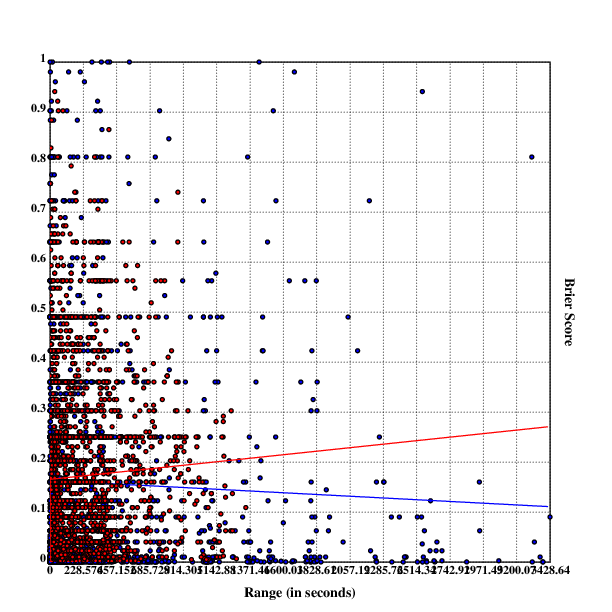
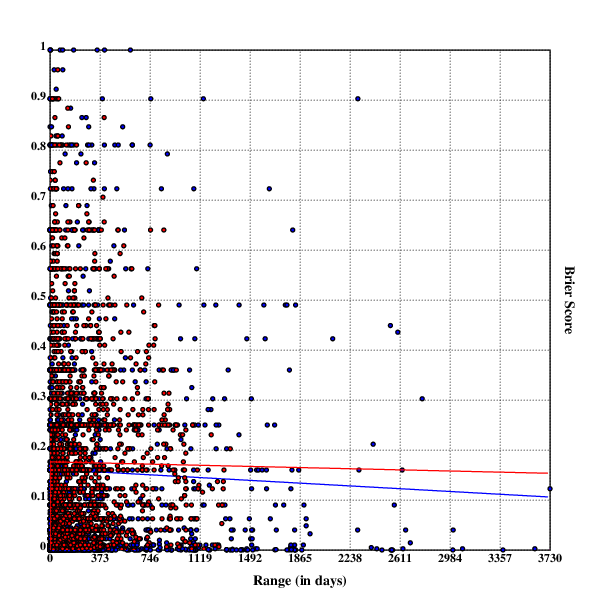
Add.

Changed region(s): [[0.03, 0.06, 0.96, 0.99]]

diff --git a/range_and_forecasting_accuracy.html b/range_and_forecasting_accuracy.html
@@ -61,7 +61,7 @@ document.addEventListener('DOMContentLoaded', function () {
 
 <h2><a href="./index.html">home</a></h2>
 
-<p><em>author: niplav, created: 2020-03-24, modified: 2021-05-22, language: english, status: finished, importance: 6, confidence: possible</em></p>
+<p><em>author: niplav, created: 2020-03-24, modified: 2021-10-22, language: english, status: finished, importance: 6, confidence: possible</em></p>
 
 <blockquote>
   <p><strong>This text looks at the accuracy of forecasts in relation
@@ -1073,7 +1073,8 @@ it to zero outside the range of the oldest and newest chunks:</p>
     setrgb(.rn();.rn();.rn());
     pltr::{:[(x&gt;**q)|x&lt;**|q;0;lr(x;lreg(q))]};
     plot(pltr)}
-sketch'pchsmetq
+daywmetqbrier::{+{(,x%daysec),,y}@+x}'wmetqbrier
+sketch'daywmetqbrier
 </code></pre>
 
 <p><img src="./img/range_and_forecasting_accuracy/perquestion.png" alt="Linear regressions for the accuracy of questions by range" title="Linear regressions for the accuracy of questions by range" /></p>
@@ -1089,24 +1090,34 @@ it can tell us. My <em>guess</em> would be that it somewhat shows a trend
 with higher ranges responding to higher Brier scores (and therefore
 lower accuracy).</p>
 
-<p>We can test whether this suspicion is acually correct by calculating the
-average offset and the average ascension – if the ascension is positive,
-our suspicion is confirmed.</p>
+<p>We can test whether this suspicion is acually correct by calculating
+the average offset and the average ascension – if the ascension is
+positive, our suspicion is confirmed. We have to weight questions by how
+many predictions they have received, otherwise the result is skewed by
+questions with very few predictions:</p>
 
-<pre><code>    mu'+lreg'wmetqbrier
-[0.0000000343952235958370255 0.0375813222857496718]
-    mu'+lreg'wpbqbrier
-[0.0000359749784304593045 -238.963047593209695]
+<pre><code>    (+/{(#x)*lreg(x)}'wmetqbrier)%#wmetqbrier
+[0.00000306341910990109424 3.37347711690772603]
+    (+/{(#x)*lreg(x)}'wpbqbrier)%#wpbqbrier
+[0.0000806198780915276973 -500.10522409216513]
 </code></pre>
 
-<p>So it is true that accuracy within question <em>generally</em> is higher with
-lower range for Metaculus data. Everything else would have been surprising.</p>
+<p>So it is true that accuracy within question <em>generally</em> is higher
+with lower range for Metaculus data, and similar for PredictionBook
+data. Everything else would have been surprising.</p>
 
 <!--TODO: However, explain PredictionBook data?-->
 
 <p><img src="./img/range_and_forecasting_accuracy/withintotal.png" alt="Mean of linear regressions on accuracy within questions" title="Mean of linear regressions on accuracy within questions" /></p>
 
 <p><em>Mean of linear regressions on accuracy within questions (red is Metaculus data, blue is PredictionBook data).</em></p>
+
+<p>This chart, however, shows that the result is not as clean as one might
+hope: both linear regressions are very steep, with the PredictionBook
+one seeming more like a vertical line than a linear function of time.</p>
+
+<p>This probably results from the probabilities being treated linearly,
+while handling them in logspace would be much more appropriate.</p>
 
 <h3>Sample Sizes</h3>
 
@@ -1201,17 +1212,40 @@ the Metaculus developers do not exist to cater to my whims, and are doing
 a phenomenal job). So, unfortunately I'll have postpone a more complete
 analysis to later.</p>
 
+<h2>Limitations</h2>
+
+<p>This analysis is still quite lacking in several aspects and could be
+significantly improved.</p>
+
+<h3>Metaculus Dataset is Only Community Timeseries</h3>
+
+<p>The Metaculus dataset and the PredictionBook dataset are quite different:
+For PredictionBook, the full dataset of all predictions is available,
+while the Metaculus API only offers data of the weighted average of the
+community as a timeseries (with ≤101 datapoints). Due to this limitation,
+the PredictionBook results and the Metaculus results can't be easily compared.</p>
+
+<p>However, I have tried to report the results for the Metaculus dataset
+and the PredictionBook dataset separately, so that future work can
+work either with aggregated timeseries data or with full datasets of
+individual forecasts.</p>
+
+<h3>PredictionBook Forecasts can be Resolved by Anyone</h3>
+
+<p>PredictionBook, unlike Metaculus, makes no attempts to generate a shared
+notion of ground-truth: Any user can resolve any question as they like,
+with the question-writer having the final verdict. This would make it
+quite easy to manipulate the dataset.</p>
+
+<p>In contrast, Metaculus has a set of admins and moderators that share a
+notion of how the questions relate to events in the world, which keeps
+questions and resolutions consistent with each other.</p>
+
 <!--
-Limitations
------------
+### Linear Regression is Not Predictive
 
-### Metaculus Dataset is Only Community Timeseries
-
-Oh boy.
-TODO:
-Two different kinds of datasets
-
-### PredictionBook Forecasts can be Resolved by Anyone
+Use logspace instead? And logscore instead of brier score?
+Or just a logistic regression?
 -->
 
 <h2>Conclusion</h2>

diff --git a/changelog.html b/changelog.html
@@ -61,7 +61,7 @@ document.addEventListener('DOMContentLoaded', function () {
 
 <h2><a href="./index.html">home</a></h2>
 
-<p><em>author: niplav, created: 2019-04-02, modified: 2021-10-18, language: english, status: in progress, importance: 3, confidence: log</em></p>
+<p><em>author: niplav, created: 2019-04-02, modified: 2021-10-22, language: english, status: in progress, importance: 3, confidence: log</em></p>
 
 <blockquote>
   <p><strong>A monthly review of changes on this website.</strong></p>
@@ -72,6 +72,15 @@ document.addEventListener('DOMContentLoaded', function () {
 <h2>October 2021</h2>
 
 <ul>
+<li>New pages:
+<ul>
+<li><a href="./language.html">Playing with Language</a>. Collecting linguistic weirdnesses, rants about improper terminology, idioms for paper titles, quines, umeshisms, missing symmetries, types of guy, …</li>
+<li><a href="./microfiction.html">Microfiction</a>. Portmanteaus, interesting &amp; nice words, short poems, haikus, <a href="https://zackmdavis.net/blog/2019/06/inconsiderate/" title="Inconsiderate">Davisian dialogue fragments</a>, misattributed &amp; invented quotes, …</li>
+<li><a href="./sites.html">Recommendation-Worthy Websites</a></li>
+<li><a href="./textbook_discord_servers.html">Discord Servers for Textbooks</a></li>
+</ul></li>
+<li>Additions to old pages:
+<ul>
 <li><a href="./99_problems_klong_solution.html">99 Problems Klong Solution</a>:
 <ul>
 <li><a href="./99_problems_klong_solution.html#P63--Construct-a-complete-binary-tree">P63</a></li>
@@ -80,10 +89,10 @@ document.addEventListener('DOMContentLoaded', function () {
 <ul>
 <li><a href="./considerations_on_cryonics.html#Now-What">Now What?</a></li>
 </ul></li>
-<li><a href="./language.html">Playing with Language</a>. Collecting linguistic weirdnesses, rants about improper terminology, idioms for paper titles, quines, umeshisms, missing symmetries, types of guy, …</li>
-<li><a href="./microfiction.html">Microfiction</a>. Portmanteaus, interesting &amp; nice words, short poems, haikus, <a href="https://zackmdavis.net/blog/2019/06/inconsiderate/index.html" title="Inconsiderate">Davisian dialogue fragments</a>, misattributed &amp; invented quotes, …</li>
-<li><a href="./sites.html">Recommendation-Worthy Websites</a></li>
-<li><a href="./textbook_discord_servers.html">Discord Servers for Textbooks</a></li>
+<li><a href="./range_and_forecasting_accuracy.html">Range and Forecasting Accuracy</a>
+<ul>
+<li><a href="./range_and_forecasting_accuracy.html#Limitations">Limitations</a></li>
+</ul></li>
 <li><a href="./nst_solutions.html">Solutions to “Naive Set Theory”</a>:
 <ul>
 <li><a href="./nst_solutions.html#Section-12">Section 12</a>
@@ -98,6 +107,8 @@ document.addEventListener('DOMContentLoaded', function () {
 <ul>
 <li><a href="./rs_solutions.html#21">2.1</a></li>
 <li><a href="./rs_solutions.html#22">2.2</a></li>
+<li><a href="./rs_solutions.html#23">2.3</a></li>
+</ul></li>
 </ul></li>
 </ul></li>
 </ul>
@@ -105,8 +116,8 @@ document.addEventListener('DOMContentLoaded', function () {
 <p>I now sort-of disavow <a href="./life_improvements_2030.html">Life Improvements in
 2030</a>: It completely missed the premise
 of thinking how regular people might perceive the future to be better
-in everyday, instead turning into another average "How might the future
-be like?" post by focussing on big-picture developments. Boring.</p>
+in everyday life, instead turning into another average "How might the
+future be like?" post by focussing on big-picture developments. Boring.</p>
 
 <h3>Other</h3>
 

diff --git a/99_problems_klong_solution.html b/99_problems_klong_solution.html
@@ -61,7 +61,7 @@ document.addEventListener('DOMContentLoaded', function () {
 
 <h2><a href="./index.html">home</a></h2>
 
-<p><em>author: niplav, created: 2019-02-10, modified: 2021-10-11, language: english, status: in progress, importance: 3, confidence: highly likely</em></p>
+<p><em>author: niplav, created: 2019-02-10, modified: 2021-10-21, language: english, status: in progress, importance: 3, confidence: highly likely</em></p>
 
 <blockquote>
   <p><strong>Solutions to the <a href="./99_klong_problems.html" title="99 Klong
@@ -2862,20 +2862,20 @@ Generally, the number of nodes in a complete binary tree can be described
 using the form `$2^n-1+r$`: a perfect binary tree with `$2^n-1$` nodes,
 and a set of residual nodes added on the last layer, where `$r<2^n-1$`
 (if `$r=2^n-1$`, then the last layer is full and no other layer has yet
-started).<!--TODO: image would perhaps be helpful--> A complete binary
+started).TODO: image would perhaps be helpful-> A complete binary
 tree also has another interesting property: its left and right subtree
 are both complete binary trees, with one even being a perfect binary
-tree.<!--TODO: proof?-->
+tree.TODO: proof?->
 
-<p>Indeed, if <code>$r \ge \frac{2^n}{2}$</code>, then the left subtree is perfect,
-if <code>$r \le \frac{2^n}{2}$</code>, the right subtree is perfect. This knowledge
+Indeed, if `$r \ge \frac{2^n}{2}$`, then the left subtree is perfect,
+if `$r \le \frac{2^n}{2}$`, the right subtree is perfect. This knowledge
 allows us to create a recursive algorithm for generating complete trees with
 -->
 <!--
-    s63::{:[0=x;[];{(:x,:[y&lt;2*x;[];,.f(x*2;y)]),:[y=2*x;,[]:|y&lt;1+2*x;[];,.f(1+2*x;y)]}:(1;x)]}
+    s63::{:[0=x;[];{(:x,:[y<2*x;[];,.f(x*2;y)]),:[y=2*x;,[]:|y<1+2*x;[];,.f(1+2*x;y)]}:(1;x)]}
     s63::{:[x=0;[]:|x=1;(:x,,[]),,[];(:x,,.f((2^1+_ln(x%2)%ln(2))-1)),,.f(x-(2^1+_ln(x%2)%ln(2)))]}
-    s63::{[v];v:::[x&lt;2;0;2^_ln(x%2)%ln(2)];.p(v);:[~x;[]:|x=1;(:x,,[]),,[];(:x,,.f((v&amp;x-v-1)+v-1)),,.f((0|x-2*v-1)+v-1)]}
---></p>
+    s63::{[v];v:::[x<2;0;2^_ln(x%2)%ln(2)];.p(v);:[~x;[]:|x=1;(:x,,[]),,[];(:x,,.f((v&x-v-1)+v-1)),,.f((0|x-2*v-1)+v-1)]}
+-->
 
 <p>Since every node has a specific address, one can write a simple recursive
 function that passes the number of nodes and the address of the current

diff --git a/exercise_log.html b/exercise_log.html
@@ -61,7 +61,7 @@ document.addEventListener('DOMContentLoaded', function () {
 
 <h2><a href="./index.html">home</a></h2>
 
-<p><em>author: niplav, created: 2020-06-15, modified: 2021-10-16, language: english, status: notes, importance: 1, confidence: log</em></p>
+<p><em>author: niplav, created: 2020-06-15, modified: 2021-10-21, language: english, status: notes, importance: 1, confidence: log</em></p>
 
 <blockquote>
   <p><strong>I recently got the feeling that tracking my exercise might be vaguely
@@ -1945,6 +1945,44 @@ routine</a>.</p>
 <li>60 7.5kg dumbbell bench presses</li>
 <li>20 7.5kg dumbbell scaptions</li>
 <li>10 7.5kg dumbbell lateral lifts</li>
+<li>60 push-ups</li>
+<li>60 sit-ups</li>
+<li>60 double leg lifts</li>
+<li>20 burpees</li>
+<li>60 walking lunges</li>
+<li>100 froggers</li>
+<li>2 minutes plank</li>
+</ul>
+
+<h3>2021-10-19</h3>
+
+<ul>
+<li>30 7.5kg dumbbell shoulder presses</li>
+<li>30 7.5kg dumbbell biceps curls</li>
+<li>30 7.5kg dumbbell upright rows</li>
+<li>30 7.5kg dumbbell Γ lifts</li>
+<li>30 7.5kg dumbbell bench presses</li>
+<li>10 7.5kg dumbbell scaptions</li>
+<li>10 7.5kg dumbbell lateral lifts</li>
+<li>30 push-ups</li>
+<li>30 sit-ups</li>
+<li>30 double leg lifts</li>
+<li>20 burpees</li>
+<li>30 walking lunges</li>
+<li>100 froggers</li>
+<li>1 minutes plank</li>
+</ul>
+
+<h3>2021-10-21</h3>
+
+<ul>
+<li>60 7.5kg dumbbell shoulder presses</li>
+<li>60 7.5kg dumbbell biceps curls</li>
+<li>60 7.5kg dumbbell upright rows</li>
+<li>60 7.5kg dumbbell Γ lifts</li>
+<li>60 7.5kg dumbbell bench presses</li>
+<li>20 7.5kg dumbbell scaptions</li>
+<li>20 7.5kg dumbbell lateral lifts</li>
 <li>60 push-ups</li>
 <li>60 sit-ups</li>
 <li>60 double leg lifts</li>

diff --git a/rs_solutions.html b/rs_solutions.html
@@ -99,17 +99,27 @@ described by</p>
 
 <p><code>$\text{CTM} \overset{def}{=} \text{coin}.(\text{CTM}+\mathbf{0}+\overline{\text{coffee}}.\text{CTM}+\overline{\text{tea}}.\text{CTM})$</code></p>
 
-<p>Hey look! <code>$+$</code> is commutatitve here!</p>
+<p>Hey look! <code>$+$</code> is commutative here!</p>
 
 <h3>2.3</h3>
 
 <blockquote>
   <p>A finite process graph <code>$T$</code> is a quadruple <code>$(\mathcal{Q}, A, \delta, q_0)$</code>, where <br />
 • <code>$\mathcal{Q}$</code> is a finite set of states, <br />
-• <code>$A$</code> is a finite set of label, <br />
+• <code>$A$</code> is a finite set of labels, <br />
 • <code>$q_0 \in \mathcal{Q}$</code> is the start state, and <br />
 • <code>$\delta: \mathcal{Q} \times A \rightarrow 2^{\mathcal{Q}}$</code> is the transition function.  </p>
 
 <p>Using the operators introduced so far, give a CCS process that describes <code>$T$</code>.</p>
 </blockquote>
+
+<div>
+    $$ T=q_0.\underset{a \in A}{\mathbf{+}} (a. \underset{q_1 \in δ(q_0, a)}{\mathbf{+}} (q_1.\underset{a \in A}{\mathbf{+}} (a. \underset{q_2 \in δ(q_1)}{\mathbf{+}} (q_2. \cdots))))$$
+</div>
+
+<p>where <code>$\mathbf{+}$</code> is <em>supposed</em> to be a big iterative operator like
+<code>$\sum$</code>, if only I could get MathJax to accept <code>\scalerel</code>. The equation
+is nested infinitely deep at most places that result in a loop that
+doesn't include <code>$q_0$</code>, and in some places end with <code>$.T$</code>, if <code>$q_0
+\in δ(q_n,a)$</code>.</p>
 </html>

diff --git a/language.html b/language.html
@@ -61,7 +61,7 @@ document.addEventListener('DOMContentLoaded', function () {
 
 <h2><a href="./index.html">home</a></h2>
 
-<p><em>author: niplav, created: 2021-10-13, modified: 2021-10-19, language: multiple, status: in progress, importance: 1, confidence: other</em></p>
+<p><em>author: niplav, created: 2021-10-13, modified: 2021-10-20, language: multiple, status: in progress, importance: 1, confidence: other</em></p>
 
 <blockquote>
   <p><strong>.</strong></p>
@@ -230,9 +230,9 @@ feel pleasure or pain, or, to be more general, have experiences with a
 <a href="https://en.wikipedia.org/wiki/Valence_(psychology">valence</a>). However,
 the strict philosophical definition of "sentience" does not necessarily
 entail the ability to feel pleasure or pain, just that some qualia
-can be experienced. Although it is very often assumed that sentience</p>
-
-<p>making a distinction between the two.</p>
+can be experienced. Although it is very often assumed that sentience
+necessarily entails pleasure and pain, it might still be worthwhile
+making a distinction between the two.</p>
 
 <blockquote>
   <p>"Sentients" is usually defined as beings that are capable of

diff --git a/todo.html b/todo.html
@@ -61,7 +61,7 @@ document.addEventListener('DOMContentLoaded', function () {
 
 <h2><a href="./index.html">home</a></h2>
 
-<p><em>author: niplav, created: 2019-09-09, modified: 2021-10-19, language: english, status: notes, importance: 2, confidence: log</em></p>
+<p><em>author: niplav, created: 2019-09-09, modified: 2021-10-21, language: english, status: notes, importance: 2, confidence: log</em></p>
 
 <blockquote>
   <p><strong>Notes and ideas for texts &amp; programs that will be written decades

diff --git a/sites.html b/sites.html
@@ -76,6 +76,7 @@ document.addEventListener('DOMContentLoaded', function () {
 <ul>
 <li><a href="https://www.gwern.net/">Gwern</a></li>
 <li><a href="https://nintil.com/">Nintil</a></li>
+<li><a href="https://dynomight.net/">Dynomight</a></li>
 </ul></li>
 <li><a href="https://en.wikipedia.org/">Wikipedia</a></li>
 </ul></li>
